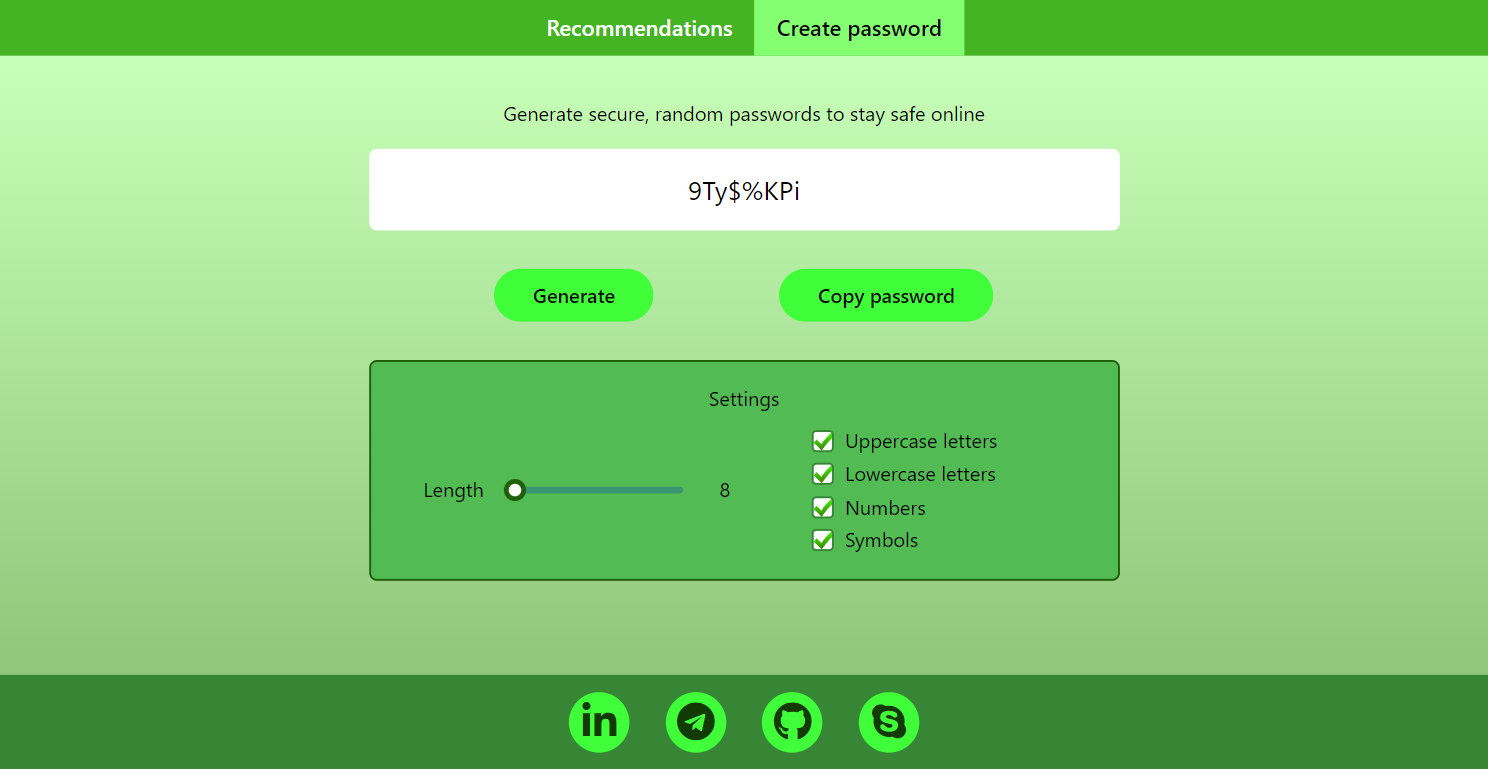
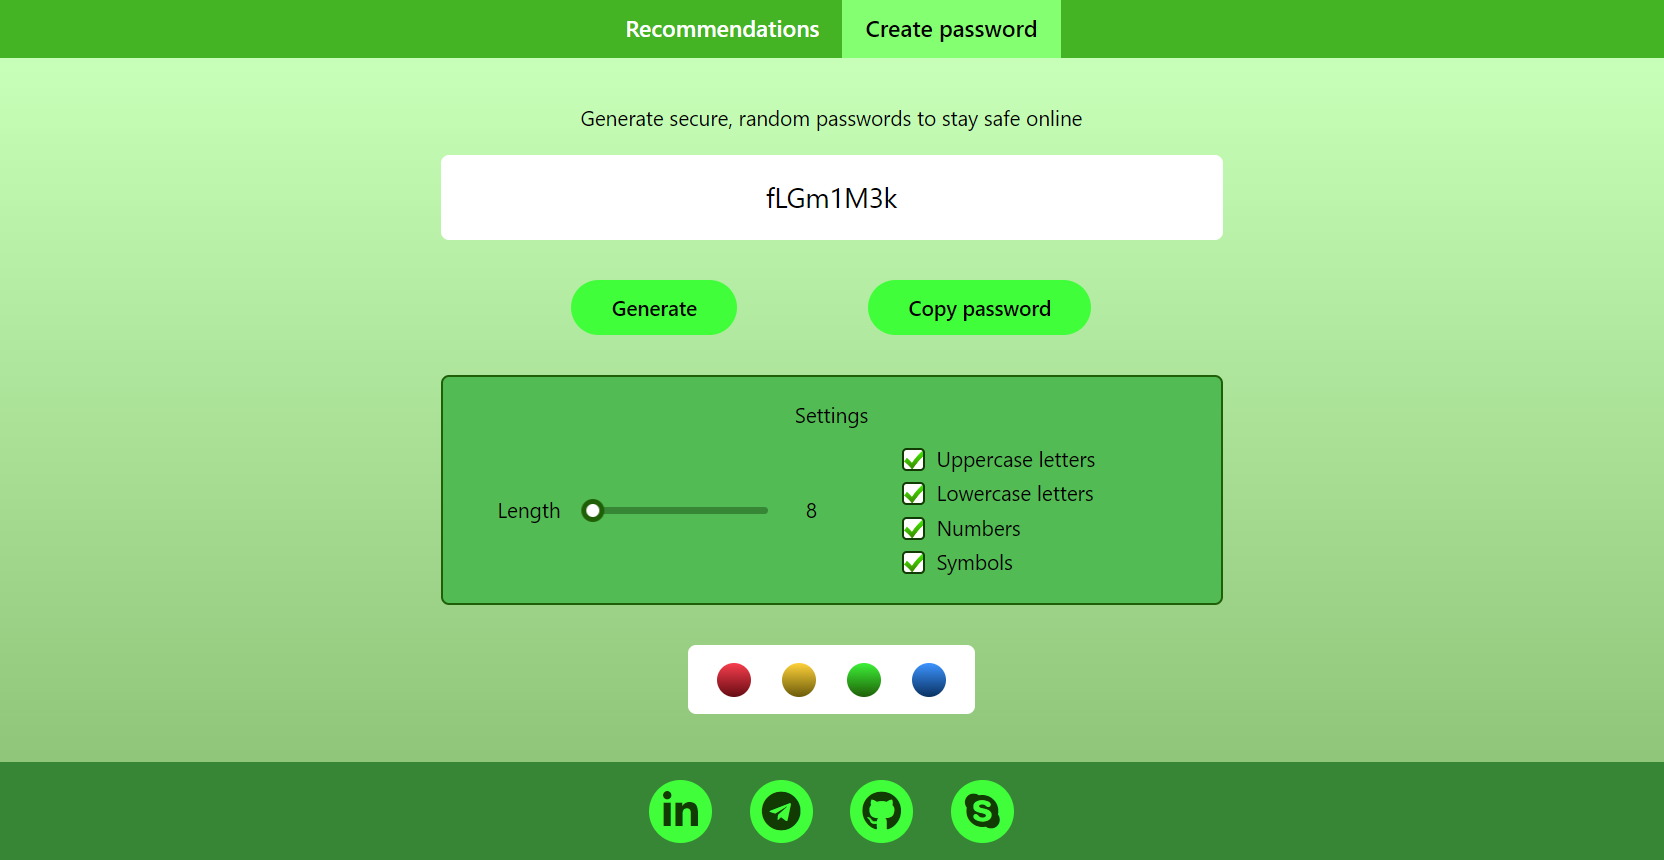
change Password generator project image

Changed region(s): [[0.2473, 0.1248, 0.7728, 0.8427], [0.0, 0.8739, 1.0, 0.9987], [0.0, 0.0, 1.0, 0.0936]]

diff --git a/src/Projects/Projects.tsx b/src/Projects/Projects.tsx
@@ -17,7 +17,7 @@ export const Projects = () => {
                 <Title title={"Projects"}/>
                 <div className={s.projectsContainer}>
                     <Project title={"Password generator"}
-                             description={"SPA for generation secure random passwords. Implemented: create random password page with password settings(length, uppercase letters, lowercase letters, numbers, symbols) and copy password button, recommendations page."}
+                             description={"SPA for generation secure random passwords. Implemented: create random password page with password settings(length, uppercase letters, lowercase letters, numbers, symbols) and copy password button, recommendations page, change color theme bar on all pages."}
                              technologies={"JavaScript, TypeScript, React, Redux, SCSS, ESLint, Prettier"}
                              imageLink={PasswordGenerator}
                              link={"https://github.com/ssivenkov/Password-generator"}
@@ -36,7 +36,7 @@ export const Projects = () => {
                     />
                     <Project title={"TodoList"}
                              description={"SPA for managing to-do lists and their items. Implemented: add todolist / task, remove todolist / task, rename todolist / task, marking the completed task, displaying all / active / confirmed tasks in todolist."}
-                             technologies={"JavaScript, TypeScript, React, Redux, SCSS"}
+                             technologies={"JavaScript, TypeScript, React, Redux, Material UI, SCSS"}
                              imageLink={Todolist}
                              link={"https://github.com/ssivenkov/TodoList"}
                     />
